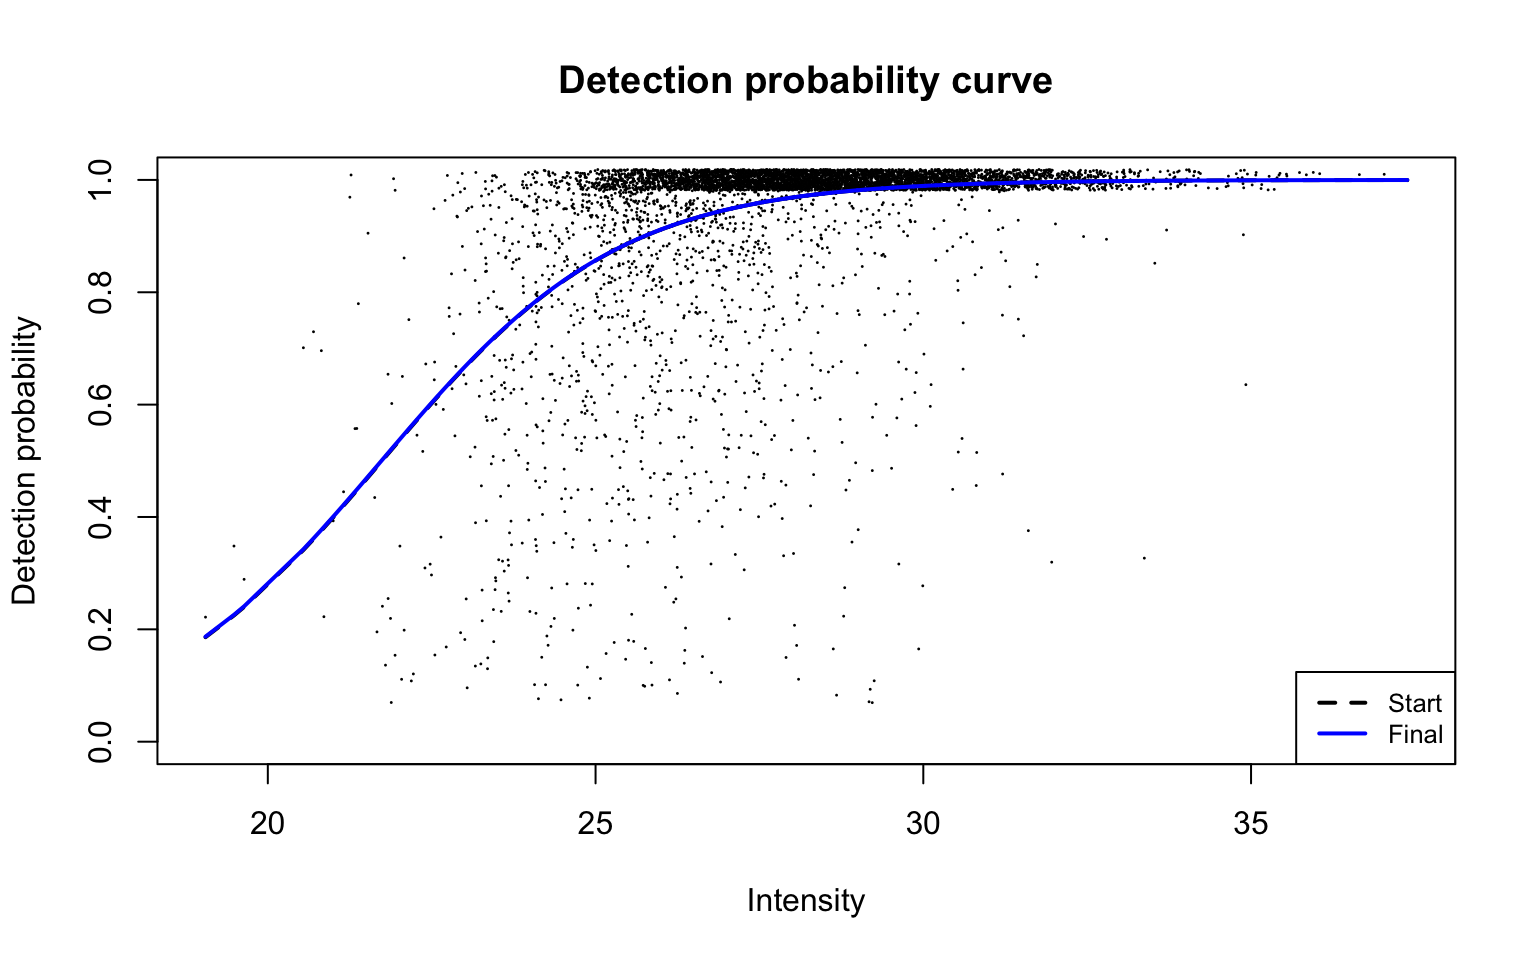
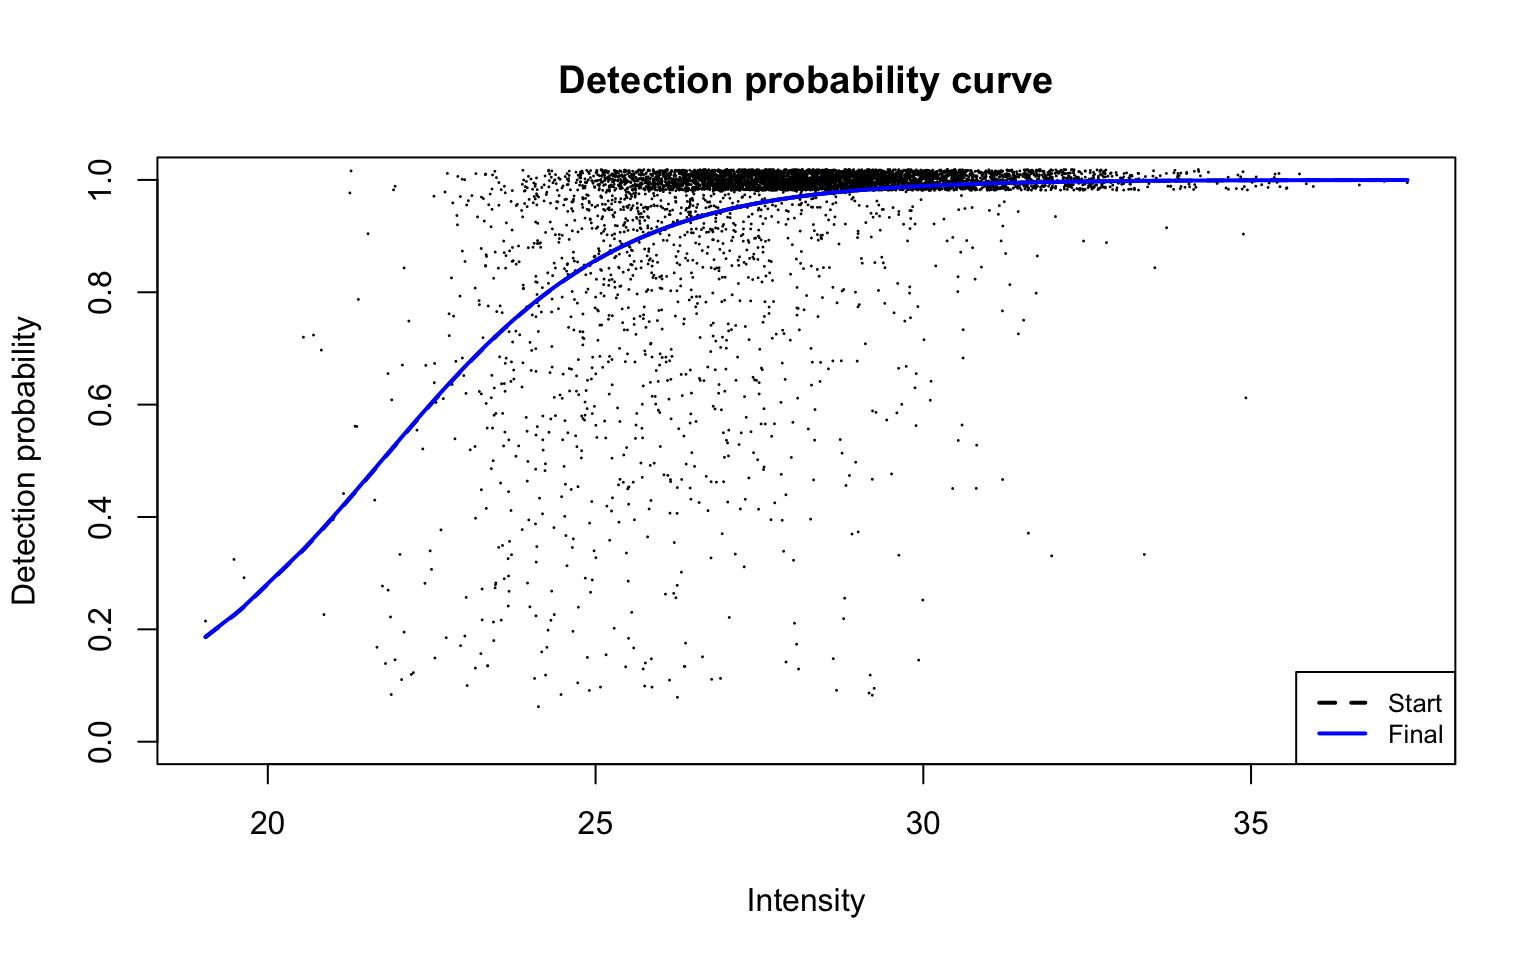
Change DPC start values from glm output to ztbinom

Changed region(s): [[0.2812, 0.1562, 0.7812, 0.4375], [0.4688, 0.4375, 0.5, 0.4688], [0.3438, 0.4375, 0.375, 0.4688]]

diff --git a/docs/articles/supp.html b/docs/articles/supp.html
@@ -168,7 +168,8 @@ intensities<a class="anchor" aria-label="anchor" href="#detection-probability-cu
 <p><img src="supp_files/figure-html/unnamed-chunk-8-1.png" width="768"></p>
 <p>The estimated parameters for the detection probability curve are</p>
 <div class="sourceCode" id="cb9"><pre class="sourceCode r"><code class="sourceCode r"><span id="cb9-1"><a href="#cb9-1" aria-hidden="true" tabindex="-1"></a><span class="fu">round</span>(hyeProt<span class="sc">$</span>dpcFit<span class="sc">$</span>beta, <span class="dv">2</span>)</span>
-<span id="cb9-2"><a href="#cb9-2" aria-hidden="true" tabindex="-1"></a>[<span class="dv">1</span>] <span class="sc">-</span><span class="fl">1.76</span>  <span class="fl">0.87</span></span></code></pre></div>
+<span id="cb9-2"><a href="#cb9-2" aria-hidden="true" tabindex="-1"></a>   b0    b1 </span>
+<span id="cb9-3"><a href="#cb9-3" aria-hidden="true" tabindex="-1"></a><span class="sc">-</span><span class="fl">1.75</span>  <span class="fl">0.87</span> </span></code></pre></div>
 <p><br><br><br><br></p>
 </div>
 </div>
@@ -237,11 +238,12 @@ groups. The log2-transformation is first applied to LFQ intensities.</p>
 intensities<a class="anchor" aria-label="anchor" href="#detection-probability-curve-assuming-normal-observed-intensities-1"></a>
 </h3>
 <div class="sourceCode" id="cb16"><pre class="downlit sourceCode r">
-<code class="sourceCode R"><span class="fu"><a href="../reference/plotDPC.html">plotDPC</a></span><span class="op">(</span><span class="va">scProt</span><span class="op">$</span><span class="va">nuis</span>, <span class="va">scProt</span><span class="op">$</span><span class="va">dpcFit</span>, add.jitter <span class="op">=</span> <span class="cn">FALSE</span>, point.cex <span class="op">=</span> <span class="fl">0.15</span><span class="op">)</span></code></pre></div>
+<code class="sourceCode R"><span class="fu"><a href="../reference/plotDPC.html">plotDPC</a></span><span class="op">(</span><span class="va">scProt</span><span class="op">$</span><span class="va">nuis</span>, <span class="va">scProt</span><span class="op">$</span><span class="va">dpcFit</span>, add.jitter <span class="op">=</span> <span class="cn">FALSE</span>, point.cex <span class="op">=</span> <span class="fl">0.1</span><span class="op">)</span></code></pre></div>
 <p><img src="supp_files/figure-html/unnamed-chunk-16-1.png" width="768"></p>
 <p>Parameters of the detection probability curve are as follows:</p>
 <div class="sourceCode" id="cb17"><pre class="sourceCode r"><code class="sourceCode r"><span id="cb17-1"><a href="#cb17-1" aria-hidden="true" tabindex="-1"></a><span class="fu">round</span>(scProt<span class="sc">$</span>dpcFit<span class="sc">$</span>beta, <span class="dv">2</span>)</span>
-<span id="cb17-2"><a href="#cb17-2" aria-hidden="true" tabindex="-1"></a>[<span class="dv">1</span>] <span class="sc">-</span><span class="fl">12.95</span>   <span class="fl">1.20</span></span></code></pre></div>
+<span id="cb17-2"><a href="#cb17-2" aria-hidden="true" tabindex="-1"></a>    b0     b1 </span>
+<span id="cb17-3"><a href="#cb17-3" aria-hidden="true" tabindex="-1"></a><span class="sc">-</span><span class="fl">12.95</span>   <span class="fl">1.20</span> </span></code></pre></div>
 <p><br><br><br><br></p>
 </div>
 </div>
@@ -315,7 +317,8 @@ intensities<a class="anchor" aria-label="anchor" href="#detection-probability-cu
 <p><img src="supp_files/figure-html/unnamed-chunk-24-1.png" width="768"></p>
 <p>Parameters of the detection probability curve are</p>
 <div class="sourceCode" id="cb25"><pre class="sourceCode r"><code class="sourceCode r"><span id="cb25-1"><a href="#cb25-1" aria-hidden="true" tabindex="-1"></a><span class="fu">round</span>(hepg2Prot<span class="sc">$</span>dpcFit<span class="sc">$</span>beta, <span class="dv">2</span>)</span>
-<span id="cb25-2"><a href="#cb25-2" aria-hidden="true" tabindex="-1"></a>[<span class="dv">1</span>] <span class="sc">-</span><span class="fl">11.90</span>   <span class="fl">0.55</span></span></code></pre></div>
+<span id="cb25-2"><a href="#cb25-2" aria-hidden="true" tabindex="-1"></a>    b0     b1 </span>
+<span id="cb25-3"><a href="#cb25-3" aria-hidden="true" tabindex="-1"></a><span class="sc">-</span><span class="fl">11.90</span>   <span class="fl">0.55</span> </span></code></pre></div>
 <p><br><br><br><br></p>
 </div>
 </div>
@@ -390,7 +393,8 @@ intensities<a class="anchor" aria-label="anchor" href="#detection-probability-cu
 <p><img src="supp_files/figure-html/unnamed-chunk-32-1.png" width="768"></p>
 <p>Parameters for the fitted detection probability curve are</p>
 <div class="sourceCode" id="cb33"><pre class="sourceCode r"><code class="sourceCode r"><span id="cb33-1"><a href="#cb33-1" aria-hidden="true" tabindex="-1"></a><span class="fu">round</span>(ddaPlasmaProt<span class="sc">$</span>dpcFit<span class="sc">$</span>beta, <span class="dv">2</span>)</span>
-<span id="cb33-2"><a href="#cb33-2" aria-hidden="true" tabindex="-1"></a>[<span class="dv">1</span>] <span class="sc">-</span><span class="fl">10.86</span>   <span class="fl">0.78</span></span></code></pre></div>
+<span id="cb33-2"><a href="#cb33-2" aria-hidden="true" tabindex="-1"></a>    b0     b1 </span>
+<span id="cb33-3"><a href="#cb33-3" aria-hidden="true" tabindex="-1"></a><span class="sc">-</span><span class="fl">10.86</span>   <span class="fl">0.78</span> </span></code></pre></div>
 <p><br><br><br><br></p>
 </div>
 </div>
@@ -507,10 +511,12 @@ intensities<a class="anchor" aria-label="anchor" href="#detection-probability-cu
 <p><img src="supp_files/figure-html/unnamed-chunk-43-1.png" width="768"></p>
 <p>With estimated parameters on precursor-level data being:</p>
 <div class="sourceCode" id="cb44"><pre class="sourceCode r"><code class="sourceCode r"><span id="cb44-1"><a href="#cb44-1" aria-hidden="true" tabindex="-1"></a><span class="fu">round</span>(res[[<span class="st">"prec"</span>]]<span class="sc">$</span>dpcFit<span class="sc">$</span>beta, <span class="dv">2</span>)</span>
-<span id="cb44-2"><a href="#cb44-2" aria-hidden="true" tabindex="-1"></a>[<span class="dv">1</span>] <span class="sc">-</span><span class="fl">7.79</span>  <span class="fl">0.52</span></span></code></pre></div>
+<span id="cb44-2"><a href="#cb44-2" aria-hidden="true" tabindex="-1"></a>   b0    b1 </span>
+<span id="cb44-3"><a href="#cb44-3" aria-hidden="true" tabindex="-1"></a><span class="sc">-</span><span class="fl">7.79</span>  <span class="fl">0.52</span> </span></code></pre></div>
 <p>and estimated parameters on protein-level data being:</p>
 <div class="sourceCode" id="cb45"><pre class="sourceCode r"><code class="sourceCode r"><span id="cb45-1"><a href="#cb45-1" aria-hidden="true" tabindex="-1"></a><span class="fu">round</span>(res[[<span class="st">"prot"</span>]]<span class="sc">$</span>dpcFit<span class="sc">$</span>beta, <span class="dv">2</span>)</span>
-<span id="cb45-2"><a href="#cb45-2" aria-hidden="true" tabindex="-1"></a>[<span class="dv">1</span>] <span class="sc">-</span><span class="fl">7.09</span>  <span class="fl">0.57</span></span></code></pre></div>
+<span id="cb45-2"><a href="#cb45-2" aria-hidden="true" tabindex="-1"></a>   b0    b1 </span>
+<span id="cb45-3"><a href="#cb45-3" aria-hidden="true" tabindex="-1"></a><span class="sc">-</span><span class="fl">7.09</span>  <span class="fl">0.57</span> </span></code></pre></div>
 <p><br><br><br><br></p>
 </div>
 </div>
@@ -634,11 +640,13 @@ intensities<a class="anchor" aria-label="anchor" href="#detection-probability-cu
 <p>With estimated parameters for the fitted detection probability curve
 for precursor-level data being:</p>
 <div class="sourceCode" id="cb56"><pre class="sourceCode r"><code class="sourceCode r"><span id="cb56-1"><a href="#cb56-1" aria-hidden="true" tabindex="-1"></a><span class="fu">round</span>(res<span class="sc">$</span>prec<span class="sc">$</span>dpcFit<span class="sc">$</span>beta, <span class="dv">2</span>)</span>
-<span id="cb56-2"><a href="#cb56-2" aria-hidden="true" tabindex="-1"></a>[<span class="dv">1</span>] <span class="sc">-</span><span class="fl">12.43</span>   <span class="fl">0.60</span></span></code></pre></div>
+<span id="cb56-2"><a href="#cb56-2" aria-hidden="true" tabindex="-1"></a>    b0     b1 </span>
+<span id="cb56-3"><a href="#cb56-3" aria-hidden="true" tabindex="-1"></a><span class="sc">-</span><span class="fl">12.44</span>   <span class="fl">0.60</span> </span></code></pre></div>
 <p>and estimated parameters for the fitted detection probability curve
 for the protein group-level data being:</p>
 <div class="sourceCode" id="cb57"><pre class="sourceCode r"><code class="sourceCode r"><span id="cb57-1"><a href="#cb57-1" aria-hidden="true" tabindex="-1"></a><span class="fu">round</span>(res<span class="sc">$</span>prot<span class="sc">$</span>dpcFit<span class="sc">$</span>beta, <span class="dv">2</span>)</span>
-<span id="cb57-2"><a href="#cb57-2" aria-hidden="true" tabindex="-1"></a>[<span class="dv">1</span>] <span class="sc">-</span><span class="fl">17.11</span>   <span class="fl">0.83</span></span></code></pre></div>
+<span id="cb57-2"><a href="#cb57-2" aria-hidden="true" tabindex="-1"></a>    b0     b1 </span>
+<span id="cb57-3"><a href="#cb57-3" aria-hidden="true" tabindex="-1"></a><span class="sc">-</span><span class="fl">17.11</span>   <span class="fl">0.83</span> </span></code></pre></div>
 <p><br><br><br><br></p>
 </div>
 </div>

diff --git a/docs/articles/protDP.html b/docs/articles/protDP.html
@@ -281,7 +281,8 @@ intensities<a class="anchor" aria-label="anchor" href="#detection-probability-cu
 <p>This plot corresponds to Panel (a) in Figure 4 of the manuscript. The
 estimated parameters are</p>
 <div class="sourceCode" id="cb10"><pre class="sourceCode r"><code class="sourceCode r"><span id="cb10-1"><a href="#cb10-1" aria-hidden="true" tabindex="-1"></a><span class="fu">round</span>(dpcFit<span class="sc">$</span>beta, <span class="dv">2</span>)</span>
-<span id="cb10-2"><a href="#cb10-2" aria-hidden="true" tabindex="-1"></a>[<span class="dv">1</span>] <span class="sc">-</span><span class="fl">1.36</span>  <span class="fl">0.73</span></span></code></pre></div>
+<span id="cb10-2"><a href="#cb10-2" aria-hidden="true" tabindex="-1"></a>   b0    b1 </span>
+<span id="cb10-3"><a href="#cb10-3" aria-hidden="true" tabindex="-1"></a><span class="sc">-</span><span class="fl">1.36</span>  <span class="fl">0.73</span> </span></code></pre></div>
 <p><br><br><br><br></p>
 </div>
 </div>
@@ -367,7 +368,8 @@ intensities<a class="anchor" aria-label="anchor" href="#detection-probability-cu
 <p>This plot corresponds to Panel (b) in Figure 4 of the manuscript with
 estimated parameters</p>
 <div class="sourceCode" id="cb19"><pre class="sourceCode r"><code class="sourceCode r"><span id="cb19-1"><a href="#cb19-1" aria-hidden="true" tabindex="-1"></a><span class="fu">round</span>(diapasefRes<span class="sc">$</span>dpcFit<span class="sc">$</span>beta, <span class="dv">2</span>)</span>
-<span id="cb19-2"><a href="#cb19-2" aria-hidden="true" tabindex="-1"></a>[<span class="dv">1</span>] <span class="sc">-</span><span class="fl">10.31</span>   <span class="fl">0.92</span></span></code></pre></div>
+<span id="cb19-2"><a href="#cb19-2" aria-hidden="true" tabindex="-1"></a>    b0     b1 </span>
+<span id="cb19-3"><a href="#cb19-3" aria-hidden="true" tabindex="-1"></a><span class="sc">-</span><span class="fl">10.31</span>   <span class="fl">0.92</span> </span></code></pre></div>
 <p><br><br><br><br></p>
 </div>
 </div>
@@ -450,7 +452,8 @@ intensities<a class="anchor" aria-label="anchor" href="#detection-probability-cu
 <p>This plot is Panel (c) in Figure 4 in the manuscript with estimated
 parameters being</p>
 <div class="sourceCode" id="cb27"><pre class="sourceCode r"><code class="sourceCode r"><span id="cb27-1"><a href="#cb27-1" aria-hidden="true" tabindex="-1"></a><span class="fu">round</span>(maxdiaRes<span class="sc">$</span>dpcFit<span class="sc">$</span>beta, <span class="dv">2</span>)</span>
-<span id="cb27-2"><a href="#cb27-2" aria-hidden="true" tabindex="-1"></a>[<span class="dv">1</span>] <span class="sc">-</span><span class="fl">10.09</span>   <span class="fl">0.42</span></span></code></pre></div>
+<span id="cb27-2"><a href="#cb27-2" aria-hidden="true" tabindex="-1"></a>    b0     b1 </span>
+<span id="cb27-3"><a href="#cb27-3" aria-hidden="true" tabindex="-1"></a><span class="sc">-</span><span class="fl">10.09</span>   <span class="fl">0.42</span> </span></code></pre></div>
 <p><br><br><br><br></p>
 </div>
 </div>
@@ -530,7 +533,8 @@ intensities<a class="anchor" aria-label="anchor" href="#detection-probability-cu
 <p>This plot is Panel (d) in Figure 4 of the manuscript, with estimated
 parameters being</p>
 <div class="sourceCode" id="cb35"><pre class="sourceCode r"><code class="sourceCode r"><span id="cb35-1"><a href="#cb35-1" aria-hidden="true" tabindex="-1"></a><span class="fu">round</span>(ddaPlasmaRes<span class="sc">$</span>dpcFit<span class="sc">$</span>beta, <span class="dv">2</span>)</span>
-<span id="cb35-2"><a href="#cb35-2" aria-hidden="true" tabindex="-1"></a>[<span class="dv">1</span>] <span class="sc">-</span><span class="fl">12.44</span>   <span class="fl">0.84</span></span></code></pre></div>
+<span id="cb35-2"><a href="#cb35-2" aria-hidden="true" tabindex="-1"></a>    b0     b1 </span>
+<span id="cb35-3"><a href="#cb35-3" aria-hidden="true" tabindex="-1"></a><span class="sc">-</span><span class="fl">12.44</span>   <span class="fl">0.84</span> </span></code></pre></div>
 <p><br><br><br><br></p>
 </div>
 </div>

diff --git a/docs/reference/logit_ztbinom.html b/docs/reference/logit_ztbinom.html
@@ -54,7 +54,7 @@
 
     <div class="section level2">
     <h2 id="ref-usage">Usage<a class="anchor" aria-label="anchor" href="#ref-usage"></a></h2>
-    <div class="sourceCode"><pre class="sourceCode r"><code><span class="fu">logit_ztbinom</span><span class="op">(</span><span class="va">dp</span>, <span class="va">X</span>, <span class="va">wt</span>, <span class="va">beta0</span>, b0.upper <span class="op">=</span> <span class="fl">0</span><span class="op">)</span></code></pre></div>
+    <div class="sourceCode"><pre class="sourceCode r"><code><span class="fu">logit_ztbinom</span><span class="op">(</span><span class="va">dp</span>, <span class="va">X</span>, <span class="va">wt</span>, <span class="va">beta0</span>, b0.upper <span class="op">=</span> <span class="fl">0</span>, b1.upper <span class="op">=</span> <span class="cn">Inf</span><span class="op">)</span></code></pre></div>
     </div>
 
     <div class="section level2">
@@ -70,6 +70,8 @@ binomial distribution.</p></dd>
 <dd><p>Start values for the beta coefficients.</p></dd>
 <dt>b0.upper</dt>
 <dd><p>Upper bound for b0.</p></dd>
+<dt>b1.upper</dt>
+<dd><p>Upper bound for b1.</p></dd>
 </dl></div>
     <div class="section level2">
     <h2 id="value">Value<a class="anchor" aria-label="anchor" href="#value"></a></h2>

diff --git a/docs/reference/gatherResults.html b/docs/reference/gatherResults.html
@@ -66,7 +66,8 @@ and columns are samples.</p></dd>
 <dd><p>Upper bound for beta_1 when fitting the detection probability
 curve. Typically 1.</p></dd>
 <dt>b0.upper</dt>
-<dd><p>Upper bound for beta_0 when fitting a regression spline.</p></dd>
+<dd><p>Upper bound for beta_0 when fitting an empirical regression
+spline.</p></dd>
 </dl></div>
     <div class="section level2">
     <h2 id="value">Value<a class="anchor" aria-label="anchor" href="#value"></a></h2>
